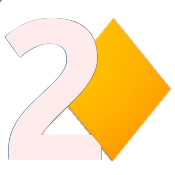
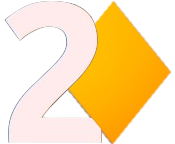
css header

diff --git a/wwwroot/css/site.css b/wwwroot/css/site.css
@@ -1,6 +1,6 @@
 :root {
     /*--main-font: calc(1.6vmax);*/
-    --main-font: calc(min(1.7rem, calc(1.6vmax)));
+    --main-font: calc(5px + min(1.5rem, calc(1vmax)));
     --main-background-color: rgb(88, 88, 88);
     --main-font-color: rgb(255, 235, 235);
     /*--suit-cards-font-size: calc(0.3em + min(2.5vh, 1.5vw));*/
@@ -41,8 +41,31 @@ html, body {
 }
 
 .header {
-    padding: 3pt 3pt 3pt 1.5%;
+    height: max(min(10vh, 120px), max(70px, calc(3 * var(--main-font))));
+    padding: 0 0 0 1vw;
     background: rgb(77, 77, 77);
+    align-items: center;
+    display: flex;
+}
+
+.header-title {
+    color: rgb(255, 235, 235);
+    font-size: calc(max(min(10vh, 120px), max(70px, calc(3 * var(--main-font)))) - 34px);
+    text-decoration: none;
+    font-weight: 900;
+    align-items: center;
+    display: flex;
+}
+
+.m2d-title-img {
+    /*width: calc(max(min(10vh, 120px), max(70px, calc(3 * var(--main-font)))) - 38px);*/
+    display: inline-block;
+    height: calc(max(min(10vh, 120px), max(70px, calc(3 * var(--main-font)))) - 34px);
+    padding: 
+            5px 
+            calc(max(min(10vh, 120px), max(70px, calc(3 * var(--main-font)))) / 7)
+            calc(max(min(10vh, 120px), max(70px, calc(3 * var(--main-font)))) / 13)
+            calc(max(min(10vh, 120px), max(70px, calc(3 * var(--main-font)))) / 7);
 }
 
 /* -------------- loading circle ------------- */

diff --git a/wwwroot/css/leftside/leftsideview.css b/wwwroot/css/leftside/leftsideview.css
@@ -9,12 +9,18 @@
 }
 
 .left-side-title {
-    /*margin-bottom: 10px;*/
     color: var(--main-font-color);
     font-weight: 600;
     height: 100%;
     width: 100%;
-    font-size: calc(1.3 * var(--main-font));
+    font-size: calc(2 * var(--main-font));
+}
+
+.div-test { /* TO-BE-DELETED */
+    height: var(--main-font);
+    width: var(--main-font);
+    background-color: #d63384;
+    display: inline-block;
 }
 
 /* --------------- line numbers --------------- */
@@ -134,7 +140,7 @@
 
 .align {
     display: grid;
-    grid-template-rows: calc(min(12%, 20vw/4)) auto;
+    grid-template-rows: calc(3 * var(--main-font)) auto;
     grid-template-columns: 100%;
     height: 100%;
     width: 100%;

diff --git a/wwwroot/css/rightside/rightsideview.css b/wwwroot/css/rightside/rightsideview.css
@@ -12,7 +12,7 @@
 .right-view-container {
     display: grid;
     grid-template-columns: 100%;
-    grid-template-rows: calc(min(12%, 20vw/4)) auto;
+    grid-template-rows: max(5vh, calc(3 * var(--main-font))) auto; /* TO-BE-CHECKED */
     width: 100%;
     height: 100%;
     padding: 2%;
@@ -35,7 +35,7 @@
     width: 50%;
     height: 100%;
     display: flex;
-    font-size: calc(var(--main-font));
+    font-size: min(max(calc(1.2 * var(--main-font)), 2vh), 2vw);
 }
 
 .message-and-spinner {
@@ -47,7 +47,7 @@
 
 .entry-message {
     color : var(--main-font-color);
-    font-size: 1.5em;
+    font-size: var(--main-font);
     font-weight: bold;
     padding-bottom: 10%;
 }
